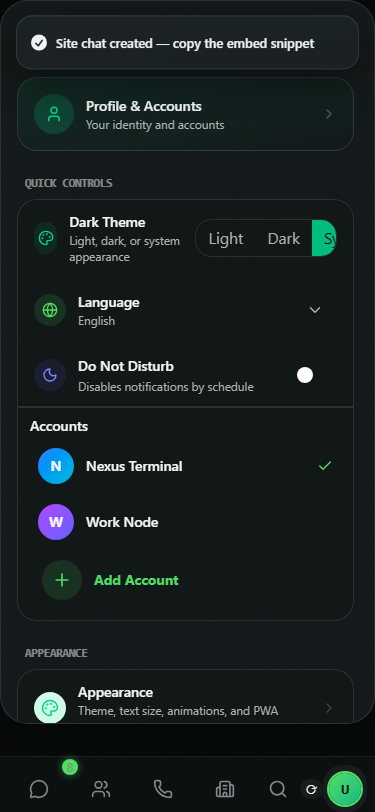
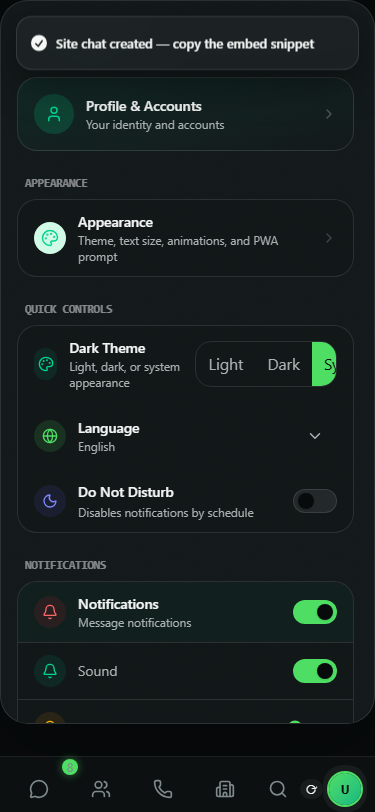
test(e2e): stop rewriting committed embed screenshots on every run
siteembed wrote docs/design/embed-screenshots directly, so any test run left
the working tree dirty with non-deterministic captures. Manual runs now write
to test-results/; the committed images are refreshed only with
UPDATE_EMBED_SCREENSHOTS=1. The three dark captures refreshed here follow the
new settings cards.

diff --git a/e2e/siteembed.spec.ts b/e2e/siteembed.spec.ts
@@ -19,7 +19,9 @@ import { fileURLToPath } from 'node:url';
  * route (the embed bundle only exists as a build artifact).
  */
 
-const SHOT_DIR = 'docs/design/embed-screenshots';
+const SHOT_DIR = process.env.UPDATE_EMBED_SCREENSHOTS === '1'
+  ? 'docs/design/embed-screenshots'
+  : 'test-results/embed-screenshots';
 const DIST_DIR = join(fileURLToPath(new URL('.', import.meta.url)), '..', 'dist');
 const EMBED_JS = join(DIST_DIR, 'embed.js');
 
